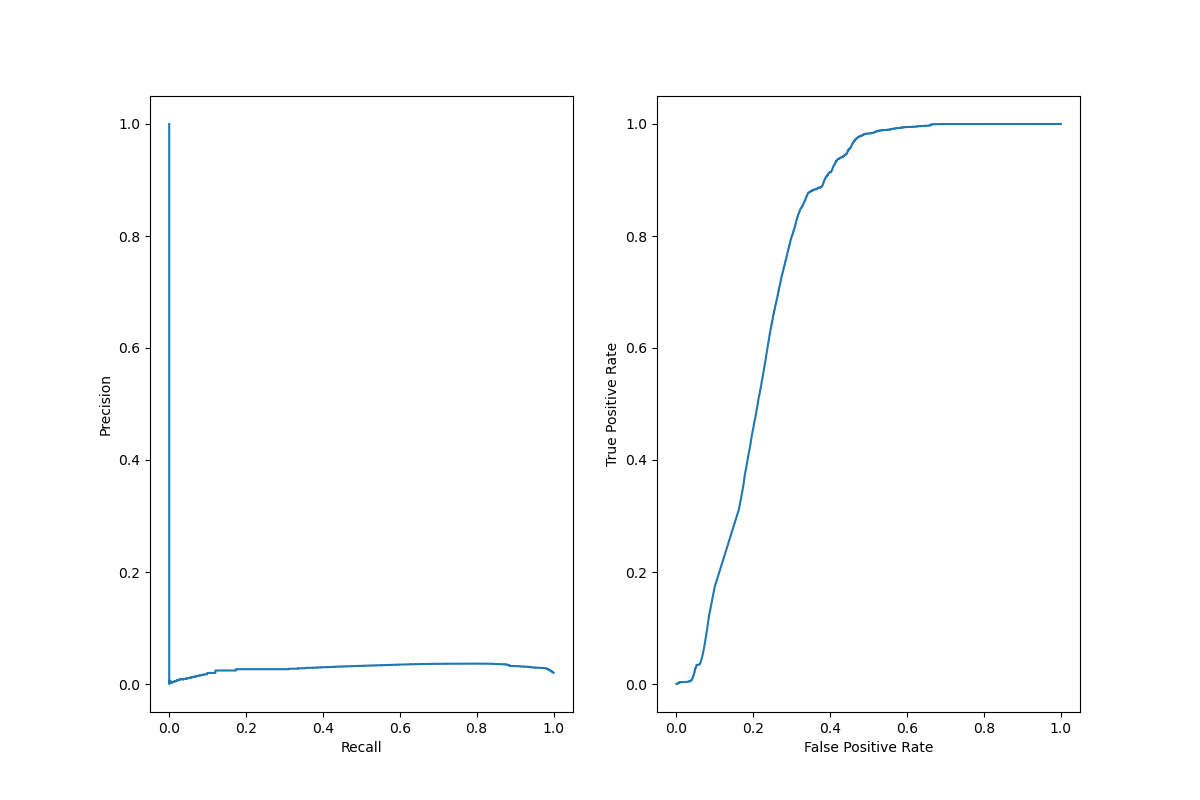
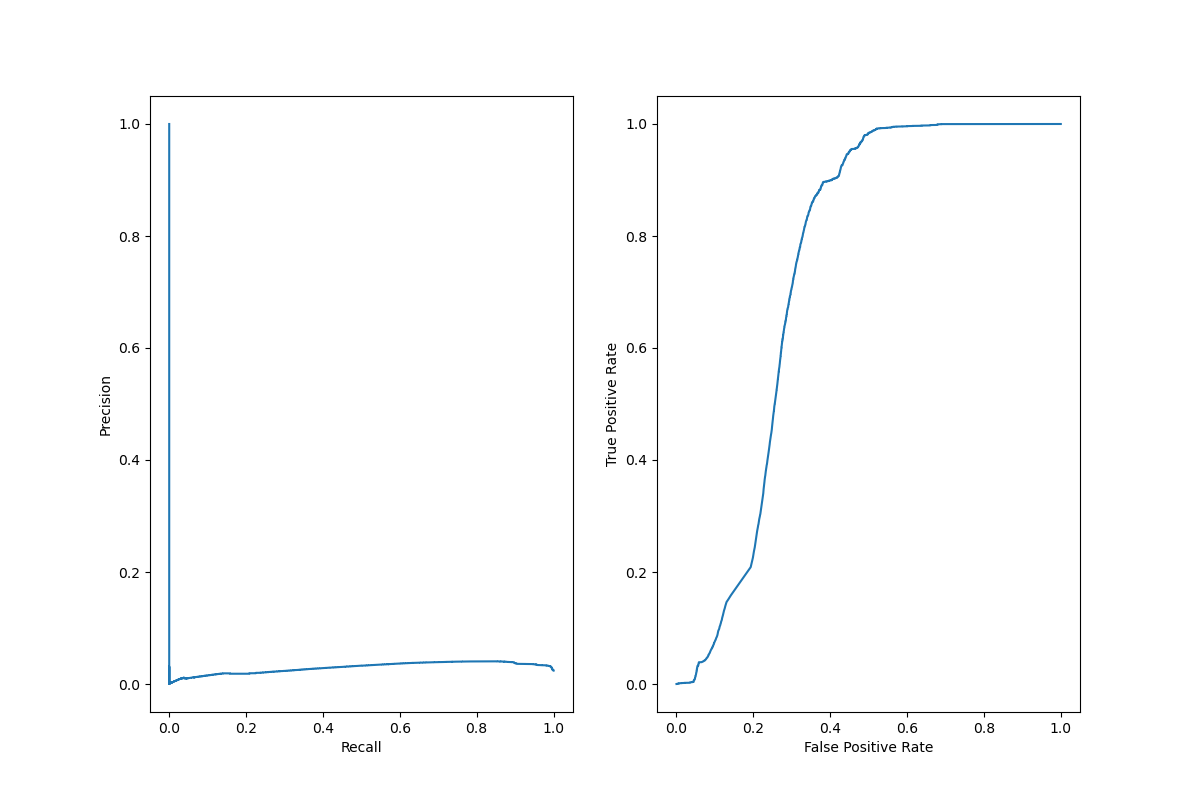
final code for plotting

diff --git a/main.py b/main.py
@@ -309,28 +309,28 @@ for run in range(N_RUNS):
         summary(model.to(hyperparams['device']), input.size()[1:])
 
     try:
-        pass
-        # train(model, optimizer, loss, train_loader, hyperparams['epoch'],
-        #           scheduler=hyperparams['scheduler'], device=hyperparams['device'],
-        #           supervision=hyperparams['supervision'], val_loader=val_loader)
+        # pass
+        train(model, optimizer, loss, train_loader, hyperparams['epoch'],
+                  scheduler=hyperparams['scheduler'], device=hyperparams['device'],
+                  supervision=hyperparams['supervision'], val_loader=val_loader)
     except KeyboardInterrupt:
         pass
 
 if N_RUNS >= 1:
     img_test, test_gt = get_testing_data(test_num)
     probabilities = test(model, img_test.astype(np.double), hyperparams)
-    probabilities = softmax(probabilities)
-    prediction = 1* probabilities[:,:,1] > threshold
+    probabilities = softmax(probabilities, axis = -1)
+    prediction = 1 * (probabilities[:,:,1] > threshold)
      
-    # prec, recall, _ = precision_recall_curve(test_gt.flatten(), probabilities[:,:,1].flatten())
-    # pr_display = PrecisionRecallDisplay(precision=prec, recall=recall).plot()
-    # fig, (ax1, ax2) = plt.subplots(1, 2, figsize=(12, 8))
-    # pr_display.plot(ax = ax1)
-    # fpr, tpr, _ = roc_curve(test_gt.flatten(), probabilities[:,:,1].flatten())
-    # roc_display = RocCurveDisplay(fpr=fpr, tpr=tpr).plot()
-    # roc_display.plot(ax = ax2)
-    # fig.savefig('precision_recall_and_roc_curve.png')
-    # plt.close(fig)
+    prec, recall, _ = precision_recall_curve(test_gt.flatten(), probabilities[:,:,1].flatten())
+    pr_display = PrecisionRecallDisplay(precision=prec, recall=recall).plot()
+    fig, (ax1, ax2) = plt.subplots(1, 2, figsize=(12, 8))
+    pr_display.plot(ax = ax1)
+    fpr, tpr, _ = roc_curve(test_gt.flatten(), probabilities[:,:,1].flatten())
+    roc_display = RocCurveDisplay(fpr=fpr, tpr=tpr).plot()
+    roc_display.plot(ax = ax2)
+    fig.savefig('precision_recall_and_roc_curve.png')
+    plt.close(fig)
     # prediction = np.argmax(probabilities, axis=-1)
     run_results = metrics(prediction, test_gt, ignored_labels=hyperparams['ignored_labels'], n_classes=N_CLASSES)
     print(run_results)
@@ -342,12 +342,12 @@ if N_RUNS >= 1:
 
     color_prediction = convert_to_color(prediction)
     results.append(run_results)
-    vis_img_test = np.concatenate([np.zeros((test_gt.shape[0], test_gt.shape[1], 1)), (255 * test_gt).reshape(test_gt.shape[0], test_gt.shape[1], 1), np.zeros((test_gt.shape[0], test_gt.shape[1], 1))], axis = -1)
-    pred_img_test = np.concatenate([np.zeros((prediction.shape[0], prediction.shape[1], 1)), (255 * prediction).reshape(prediction.shape[0], prediction.shape[1], 1), np.zeros((prediction.shape[0], prediction.shape[1], 1))], axis = -1)
-    img_test = Image.fromarray(vis_img_test, 'RGB')
+    # vis_img_test = np.concatenate([np.zeros((test_gt.shape[0], test_gt.shape[1], 1)), (255 * test_gt).reshape(test_gt.shape[0], test_gt.shape[1], 1), np.zeros((test_gt.shape[0], test_gt.shape[1], 1))], axis = -1)
+    # pred_img_test = np.concatenate([np.zeros((prediction.shape[0], prediction.shape[1], 1)), (255 * prediction).reshape(prediction.shape[0], prediction.shape[1], 1), np.zeros((prediction.shape[0], prediction.shape[1], 1))], axis = -1)
+    img_test = Image.fromarray(255 * test_gt.astype(np.uint8))
     img_test.save('actual_image.png')
     img_test.show()
-    img_pred = Image.fromarray(pred_img_test, 'RGB')
+    img_pred = Image.fromarray(255 * prediction.astype(np.uint8))
     img_pred.save('pred_image.png')
     img_pred.show()
     show_results(results, None, label_values=LABEL_VALUES, agregated=True)
